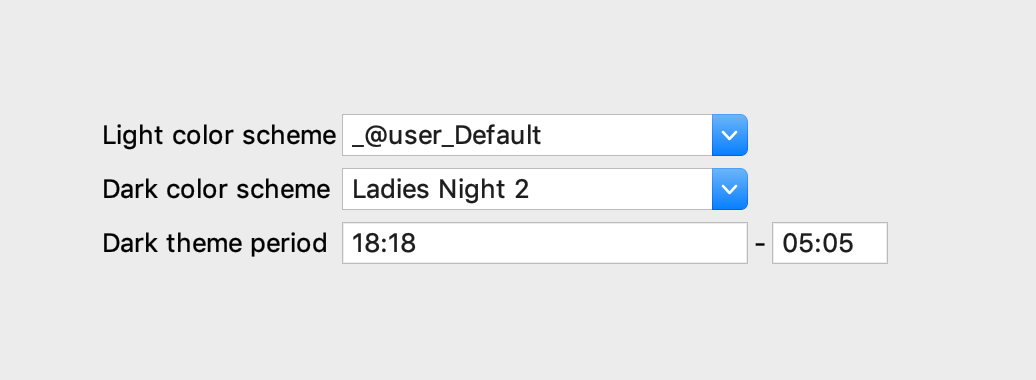
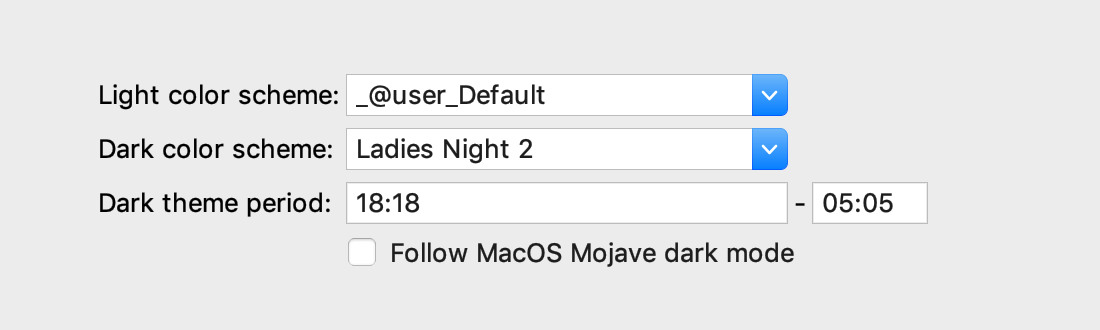
So now plugin is love MacOS Mojave dark mode! :)

Changed region(s): [[0.0927, 0.2121, 0.8649, 0.697], [0.3398, 0.7273, 0.7413, 0.8182]]

diff --git a/src/main/java/ThemeSwitcherApplication.java b/src/main/java/ThemeSwitcherApplication.java
@@ -10,12 +10,18 @@ import com.intellij.openapi.editor.colors.EditorColorsManager;
 import com.intellij.openapi.project.DumbAware;
 import com.intellij.openapi.project.Project;
 import com.intellij.openapi.startup.StartupActivity;
+import com.intellij.openapi.util.SystemInfo;
 import com.intellij.util.concurrency.AppExecutorUtil;
 import com.intellij.util.ui.UIUtil;
 import org.jetbrains.annotations.NotNull;
 import settings.ThemeSwitcherSettings;
 
 import javax.swing.*;
+import java.io.IOException;
+import java.io.InputStream;
+import java.nio.file.Files;
+import java.nio.file.Path;
+import java.nio.file.StandardCopyOption;
 import java.time.LocalDateTime;
 import java.time.LocalTime;
 import java.time.temporal.ChronoField;
@@ -52,9 +58,16 @@ public class ThemeSwitcherApplication implements StartupActivity, DumbAware {
         return time.isAfter(start) && time.isBefore(end);
     };
 
+    private MacOSDarkMode macOSDarkMode;
 
     @Override
     public void runActivity(@NotNull Project project) {
+        if (SystemInfo.isMacOSMojave) {
+            copyAndLoadNative("/native/MacOSDarkModeImpl.m.dylib");
+
+            macOSDarkMode = new MacOSDarkMode();
+        }
+
         ScheduledExecutorService executor = AppExecutorUtil.getAppScheduledExecutorService();
 
         executor.scheduleWithFixedDelay(createUpdateTask(), UPDATE_INTERVAL_MS, UPDATE_INTERVAL_MS, TimeUnit.MILLISECONDS);
@@ -69,9 +82,11 @@ public class ThemeSwitcherApplication implements StartupActivity, DumbAware {
             LocalTime end = settings.getEndDarkTime();
 
             application.invokeLater(() -> {
-                boolean useDarkMode = (end.equals(start))
-                        || end.getHour() < start.getHour() ?
-                        WITH_NEXT_DAY.test(start, end) : WITH_CURRENT_DAY.test(start, end);
+                boolean useDarkMode = (end.equals(start)) || end.getHour() < start.getHour() ? WITH_NEXT_DAY.test(start, end) : WITH_CURRENT_DAY.test(start, end);
+
+                if (settings.followMacOsDarkMode && macOSDarkMode.isDarkModeEnabled()) {
+                    useDarkMode = true;
+                }
 
                 UIManager.LookAndFeelInfo info = useDarkMode ? new DarculaLookAndFeelInfo() : new IntelliJLookAndFeelInfo();
 
@@ -79,14 +94,35 @@ public class ThemeSwitcherApplication implements StartupActivity, DumbAware {
 
                 EditorColorsManager manager = EditorColorsManager.getInstance();
 
-                SwingUtilities.invokeLater(() -> {
-                    applyLaf(info);
+                manager.setGlobalScheme(manager.getScheme(useDarkMode ? settings.darkColorScheme : settings.lightColorScheme));
 
-                    manager.setGlobalScheme(manager.getScheme(useDarkMode ? settings.darkColorScheme : settings.lightColorScheme));
-                });
+                SwingUtilities.invokeLater(() -> applyLaf(info));
 
             });
         };
+    }
+
+    private static void copyAndLoadNative(String path) {
+        try {
+            Path tempFile = Files
+                    .createTempFile("native-", path.substring(path.lastIndexOf('.')));
+            InputStream nativeLib = ThemeSwitcherApplication.class.getResourceAsStream(path);
+            if (nativeLib == null) {
+                throw new IllegalStateException("Native library " + path + " not found.");
+            }
+
+            Files.copy(nativeLib, tempFile, StandardCopyOption.REPLACE_EXISTING);
+            Runtime.getRuntime().addShutdownHook(new Thread(() -> {
+                try {
+                    Files.deleteIfExists(tempFile);
+                } catch (IOException ignored) {
+                    // Well, it doesn't matter...
+                }
+            }));
+            System.load(tempFile.toAbsolutePath().toString());
+        } catch (IOException e) {
+            throw new RuntimeException("Unable to copy natives", e);
+        }
     }
 
     private static void applyLaf(UIManager.LookAndFeelInfo info) {
@@ -109,4 +145,5 @@ public class ThemeSwitcherApplication implements StartupActivity, DumbAware {
             throw new RuntimeException(e);
         }
     }
+
 }

diff --git a/src/main/java/settings/ThemeSwitcherConfig.java b/src/main/java/settings/ThemeSwitcherConfig.java
@@ -6,12 +6,14 @@ import com.intellij.openapi.options.Configurable;
 import com.intellij.openapi.options.ConfigurationException;
 import com.intellij.openapi.options.Scheme;
 import com.intellij.openapi.options.SearchableConfigurable;
+import com.intellij.openapi.util.SystemInfo;
 import org.jetbrains.annotations.Nls;
 import org.jetbrains.annotations.NotNull;
 import org.jetbrains.annotations.Nullable;
-import settings.ThemeSwitcherSettings;
 
 import javax.swing.*;
+import java.awt.event.ItemEvent;
+import java.awt.event.ItemListener;
 import java.time.LocalTime;
 import java.time.format.DateTimeFormatter;
 import java.time.format.DateTimeParseException;
@@ -30,6 +32,7 @@ public class ThemeSwitcherConfig implements SearchableConfigurable, Configurable
     private JComboBox<String> darkColorSchemes;
     private JTextField startDarkField;
     private JTextField endDarkField;
+    private JCheckBox followDarkMode;
 
     private ThemeSwitcherSettings settings = ServiceManager.getService(ThemeSwitcherSettings.class);
     private EditorColorsManager colorsManager = EditorColorsManager.getInstance();
@@ -50,7 +53,6 @@ public class ThemeSwitcherConfig implements SearchableConfigurable, Configurable
     @Nullable
     @Override
     public JComponent createComponent() {
-
         Vector<String> supportedSchemes =
                 Arrays.stream(colorsManager.getAllSchemes())
                         .map(Scheme::getName)
@@ -67,6 +69,14 @@ public class ThemeSwitcherConfig implements SearchableConfigurable, Configurable
         startDarkField.addActionListener((event) -> modified = true);
         endDarkField.addActionListener((event) -> modified = true);
 
+        followDarkMode.setEnabled(SystemInfo.isMacOSMojave);
+
+        followDarkMode.addActionListener((event) -> modified = true);
+
+        followDarkMode.addItemListener(e -> {
+            startDarkField.setEnabled(!followDarkMode.isSelected());
+            endDarkField.setEnabled(!followDarkMode.isSelected());
+        });
 
         return panel;
     }
@@ -89,12 +99,20 @@ public class ThemeSwitcherConfig implements SearchableConfigurable, Configurable
                 .with(ChronoField.HOUR_OF_DAY, settings.endDarkHour)
                 .with(ChronoField.MINUTE_OF_HOUR, settings.endDarkMinutes)
                 .format(DATE_TIME_FORMATTER));
+
+        followDarkMode.setSelected(settings.followMacOsDarkMode);
+
+        startDarkField.setEnabled(!followDarkMode.isSelected());
+        endDarkField.setEnabled(!followDarkMode.isSelected());
+
+
     }
 
     @Override
     public void apply() throws ConfigurationException {
         settings.lightColorScheme = (String) lightColorSchemes.getSelectedItem();
         settings.darkColorScheme = (String) darkColorSchemes.getSelectedItem();
+        settings.followMacOsDarkMode = followDarkMode.isSelected();
 
         try {
             TemporalAccessor start = DATE_TIME_FORMATTER.parse(startDarkField.getText());

diff --git a/src/main/java/settings/ThemeSwitcherSettings.java b/src/main/java/settings/ThemeSwitcherSettings.java
@@ -26,6 +26,9 @@ public class ThemeSwitcherSettings implements PersistentStateComponent<ThemeSwit
     public String lightColorScheme;
     public String darkColorScheme;
 
+    //feature only available for MacOS Mojave
+    public boolean followMacOsDarkMode;
+
     public ThemeSwitcherSettings(){
         EditorColorsManager manager = EditorColorsManager.getInstance();
 
@@ -41,7 +44,6 @@ public class ThemeSwitcherSettings implements PersistentStateComponent<ThemeSwit
     public LocalTime getEndDarkTime() {
         return LocalTime.of(endDarkHour, endDarkMinutes);
     }
-
 
     @Nullable
     @Override

diff --git a/src/main/c/MacOSDarkModeImpl.m b/src/main/c/MacOSDarkModeImpl.m
@@ -1,0 +1,14 @@
+#import "MacOSDarkMode.h"
+#import <Foundation/Foundation.h>
+
+BOOL isDarkMode() {
+    NSString *osxMode = [[NSUserDefaults standardUserDefaults] stringForKey:@"AppleInterfaceStyle"];
+
+    return osxMode != nil;
+}
+
+JNIEXPORT jboolean JNICALL Java_MacOSDarkMode_isDarkModeEnabled
+   (JNIEnv *env , jobject obj) {
+
+   return isDarkMode();
+}

diff --git a/src/main/java/MacOSDarkMode.java b/src/main/java/MacOSDarkMode.java
@@ -1,0 +1,5 @@
+public class MacOSDarkMode {
+
+    public native boolean isDarkModeEnabled();
+
+}

diff --git a/README.md b/README.md
@@ -13,3 +13,4 @@ The configuration of dark theme period is located at: **Settings -> Other Settin
 - **Light color scheme** - color scheme of light theme (supporting external schemes)
 - **Dark color scheme** - color scheme of dark theme (supporting external schemes)
 - **Dark theme period** - time interval for dark theme
+- **Follow MacOS Mojave dark mode** - switch theme depending by MacOS Mojave dark mode (only available in MacOS since **10.14**)
